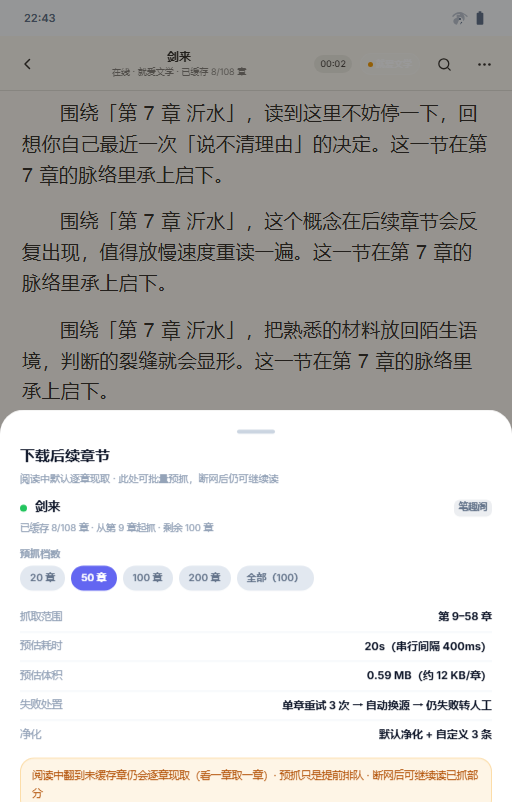
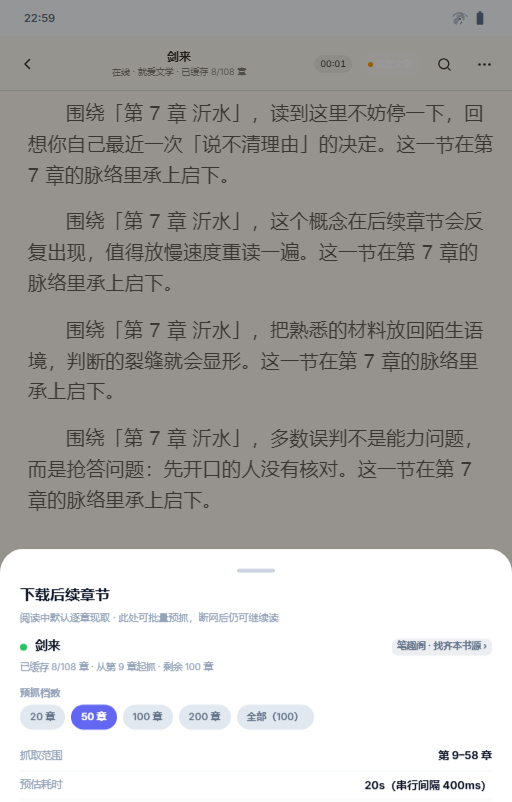
V1.55 书源专版原型轮3：新增本书书源屏（按书名找齐所有源·点一行即换源）+ 页内导入书源后自动重查

diff --git a/prototype/index-booksource.html b/prototype/index-booksource.html
@@ -2056,6 +2056,7 @@ tailwind.config = {
     <section id="p-bsDetail" class="page px-5 safe-pb no-scrollbar"><div id="bxDetailRoot"></div></section>
     <section id="p-bsTask" class="page px-5 safe-pb no-scrollbar"><div id="bxTaskRoot"></div></section>
     <section id="p-bsVerify" class="page px-5 safe-pb no-scrollbar"><div id="bxVerifyRoot"></div></section>
+    <section id="p-bsBookSrc" class="page px-5 safe-pb no-scrollbar"><div id="bxBookSrcRoot"></div></section>
   </main>
 
   <!-- ===== 悬浮球（快速记录） ===== -->
@@ -8186,6 +8187,7 @@ function bxAddImport() {
   try { bxSrcRender() } catch (e) { }
   toast('导入完成 · 新增订阅 ' + addSub + ' · 新增源 ' + addSrc + '（' + js + ' 个含 @js 已停用）· 跳过重复 ' + skip);
   BXV2.ids = BXAI.ids;
+  if (BXBS.imp) { BXBS.imp = 0; setTimeout(function () { bxBookSrcOpen(BXBS.nm); toast('新源已并入 · 重查本书') }, 420); return }
   setTimeout(function () { bxVerifyOpen('本次导入') }, 420);
 }
 
@@ -8614,6 +8616,7 @@ function bxSwitchOpen(srcId) {
     (cur.kind !== 'rule' || cur.hs !== 'ok' ? '<span class="bx-k part">' + BX_HSN[cur.hs] + '</span>' : '') + '</div>' +
     '<div class="bx-row !px-0 !py-2"><div class="flex-1"><b class="text-[12px]">自动换源</b><div class="text-[9.5px] text-slate-400">本章失败即按下方顺序重试，成功后停在原章</div></div>' +
     '<span class="toggle ' + (BS_SET.bsAuto ? 'on' : '') + '" onclick="bsFlipKey(\'bsAuto\');bxSwitchOpen(\'' + cur.id + '\')"></span></div>' +
+    '<div class="bx-row !px-0 !py-2" onclick="closeSheet(\'sheetBsSwitch\');bxBookSrcOpen()"><div class="flex-1"><b class="text-[12px]">按书名找齐所有源</b><div class="text-[9.5px] text-slate-400">拿本书书名并发查全部源 · 只列收录这本书的</div></div><span class="text-slate-300">›</span></div>' +
     '<div class="bx-cap mt-2">候选源 · 按优先级（↑↓ 调序）</div>' +
     BX_ORDER.filter(id => id !== cur.id).map((id, k) => {
       const s = bxs(id); if (!s) return '';
@@ -8990,7 +8993,7 @@ brFlip = function (dir) {
 const BX_VSTG = ['搜索', '目录', '正文', '发现页'];
 const BX_VSC = ['全部', '仅失效', '仅未自检', '本次导入'];
 let BXV2 = { scope: '全部', rows: [], i: 0, run: 0, tm: null, ids: [] };
-Object.assign(TITLES, { 'p-bsVerify': ['书源校验', '逐源跑搜索 / 目录 / 正文 / 发现页 · 出结论与归因'] });
+Object.assign(TITLES, { 'p-bsVerify': ['书源校验', '逐源跑搜索 / 目录 / 正文 / 发现页 · 出结论与归因'], 'p-bsBookSrc': ['本书书源', '按书名在所有源里找齐 · 点一行即换源并停在原章'] });
 function bxVerifyOf(s) {
   if (s.kind === 'js') return { segs: ['no', 'na', 'na', 'na'], v: '需 JS 引擎', ms: 0, why: '@js 规则 · 本期未启用引擎 · 保持停用' };
   if (s.kind === 'web') return { segs: ['no', 'na', 'na', 'na'], v: '被反爬拦', ms: 0, why: '403 + WebCrypto 解密 · 需浏览器渲染（期 4）' };
@@ -9124,7 +9127,7 @@ function bxBatchRender() {
   const opts = [20, 50, 100, 200, '全部'];
   document.getElementById('bxBatchBody').innerHTML =
     '<div class="flex items-center gap-2"><span class="bx-dot bx-hs-ok"></span><b class="text-[12.5px] flex-1 truncate">' + bxd(b.n) + '</b>' +
-    '<span class="bx-src">' + bxd(b.bsrc.srcNm) + '</span></div>' +
+    '<button class="bx-src" onclick="bxBookSrcOpen()">' + bxd(b.bsrc.srcNm) + ' · 找齐本书源 ›</button></div>' +
     '<div class="text-[9.5px] text-slate-400 mt-1">已缓存 ' + b.bsrc.cached + '/' + b.bsrc.total + ' 章 · 从第 ' + BXB.from + ' 章起抓 · 剩余 ' + BXB.left + ' 章</div>' +
     '<div class="bx-cap mt-3 mb-1">预抓档数</div>' +
     '<div class="flex gap-1.5 flex-wrap">' + opts.map(function (o) { return '<button class="chip !text-[10px] ' + (BXB.n === o ? 'chip-on' : '') + '" onclick="bxBatchPick(' + (o === '全部' ? BXB.left : o) + ',this)">' + (o === '全部' ? '全部（' + BXB.left + '）' : o + ' 章') + '</button>' }).join('') + '</div>' +
@@ -9151,6 +9154,69 @@ function bxBatchGo() {
   toast('预抓已排队 · 第 ' + from + '–' + to + ' 章（' + BXB.n + ' 章档）');
 }
 
+/* ================= 屏 8 · 本书书源（按书名在所有源里找齐 · 点一行即换源） ================= */
+let BXBS = { nm: '', q: '', done: 0, total: 0, run: 0, hits: [], errs: [], tm: null };
+function bxBookSrcOpen(nm) {
+  const b = bsBook(brV.b); const name = nm || (b && b.online ? b.n : '') || (BXV.b && BXV.b.t) || (b && b.n) || '';
+  if (!name) { toast('先在阅读页或书籍资料页打开一本书'); return }
+  closeSheet('sheetBsBatch'); closeSheet('sheetBsFail'); closeSheet('sheetBsDl'); closeSheet('sheetBrMore');
+  BXBS.nm = name; BXBS.q = name.split(/\s*(校对版|精校|全集)/)[0];
+  BXBS.done = 0; BXBS.run = 1; BXBS.hits = []; BXBS.errs = []; BXBS.no = (b && b.bsrc ? b.bsrc.cached : 1) || 1;
+  const pool = BX_SRC.slice();
+  BXBS.total = pool.length;
+  if (curPage !== 'p-bsBookSrc') navTo('p-bsBookSrc');
+  bxBookSrcRender();
+  clearInterval(BXBS.tm);
+  pool.forEach(function (s, k) {
+    setTimeout(function () {
+      const o = bxMockSrc(s, BXBS.q);
+      const no = bxBkNow() ? bxCurNo(bxBkNow()) || 1 : 1;
+      if (o.err) BXBS.errs.push({ id: s.id, why: o.err });
+      else {
+        const it = (o.list || []).find(function (x) { return x.t.indexOf(BXBS.q) === 0 }) || (o.list || [])[0];
+        if (it) BXBS.hits.push({ id: s.id, it: it, ms: o.ms, toc: s.toc || 0, align: (s.toc || 0) >= no });
+        else BXBS.errs.push({ id: s.id, why: '搜索有结果但无本书' });
+      }
+      BXBS.done++;
+      if (BXBS.done >= BXBS.total) BXBS.run = 0;
+      bxBookSrcRender();
+    }, 260 + k * 170);
+  });
+}
+function bxBookSrcRender() {
+  const r = document.getElementById('bxBookSrcRoot'); if (!r) return;
+  const cur = (bxBkNow() || {}).bsrc || {};
+  BXBS.hits.sort(function (a, b) { return (a.id === cur.srcId ? -1 : b.id === cur.srcId ? 1 : 0) || (b.toc - a.toc) });
+  r.innerHTML = '<div class="mt-2 card !py-3"><div class="flex items-center gap-2">' +
+    '<div class="flex-1 min-w-0"><b class="text-[13px] block truncate">' + bxd(BXBS.nm) + '</b>' +
+    '<div class="text-[9.5px] text-slate-400 mt-0.5">查找词「' + bxd(BXBS.q) + '」 · 全 ' + BXBS.total + ' 源并发 · 已返回 ' + BXBS.done + ' · 命中 ' + BXBS.hits.length + ' 源</div></div>' +
+    '<button class="chip !text-[10px] ' + (BXBS.run ? 'chip-on' : '') + '" onclick="bxBookSrcOpen(\'' + bxd(BXBS.nm) + '\')">' + (BXBS.run ? '查找中' : '重新查找') + '</button></div>' +
+    '<div class="bx-prog mt-2.5"><i style="width:' + Math.round(BXBS.done / Math.max(1, BXBS.total) * 100) + '%"></i></div></div>' +
+    '<div class="bx-cap mt-3">收录本书的书源 · 点一行直接换过去（停在原章）</div>' +
+    (BXBS.hits.length ? '<div class="bx-list">' + BXBS.hits.map(function (h) {
+      const s = bxs(h.id); if (!s) return ''; const isCur = s.id === cur.srcId;
+      return '<div class="bx-row ' + (isCur ? 'bg-slate-50 dark:bg-slate-800/60' : '') + '" onclick="bxBookSrcPick(\'' + s.id + '\')">' +
+        bxDot(s) + '<div class="flex-1 min-w-0"><b class="text-[12.5px] block truncate">' + bxd(s.nm) + (isCur ? ' · 当前' : '') + '</b>' +
+        '<div class="text-[9.5px] text-slate-400 truncate mt-0.5">' + bxd(h.it.a) + ' · ' + h.it.st + ' · ' + h.it.wc + '</div>' +
+        '<div class="flex items-center gap-1 mt-1">' + bxKind(s) +
+        '<span class="text-[9px] ' + (h.align ? 'text-emerald-600' : 'text-amber-600') + '">' + (s.toc ? s.toc + ' 章 · ' + (h.align ? '可对齐当前章' : '只到 ' + s.toc + ' 章') : '章数待取目录') + '</span></div></div>' +
+        '<div class="text-right shrink-0"><div class="text-[9.5px] text-slate-400 bx-lat">' + h.ms + 'ms</div>' +
+        '<button class="mini-btn mt-1">' + (isCur ? '重取本章' : '换到本源') + '</button></div></div>';
+    }).join('') + '</div>' : '<div class="bx-empty">' + (BXBS.run ? '正在逐源查找…' : '没有源收录这本书 · 可导入书源文件后再查') + '</div>') +
+    (BXBS.errs.length ? '<div class="bx-cap mt-3">未命中 / 不可用 ' + BXBS.errs.length + ' 源</div><div class="bx-list">' +
+      BXBS.errs.map(function (e) { const s = bxs(e.id); if (!s) return ''; return '<div class="bx-vrow opacity-70">' + bxDot(s) +
+        '<span class="flex-1 min-w-0 truncate">' + bxd(s.nm) + '</span><span class="text-[9.5px] text-slate-400 truncate max-w-[58%]">' + bxd(e.why) + '</span></div>' }).join('') + '</div>' : '') +
+    '<div class="mt-3 flex gap-2">' +
+    '<button class="flex-1 py-3 rounded-2xl grad text-white text-[13px] font-bold" onclick="BXBS.imp=1;bxAddOpen()">导入书源文件 / 链接</button>' +
+    '<button class="flex-1 py-3 rounded-2xl border border-slate-200 dark:border-slate-700 text-[13px] font-bold" onclick="bxVerifyOpen(\'全部\')">书源校验</button></div>' +
+    '<div class="bx-warn mt-2">换源只改正文来源 · 章节按「第 N 章」编号对齐 · 划线 · 书摘 · 计时 · 进度全部不动</div>';
+}
+function bxBookSrcPick(id) {
+  const s = bxs(id);
+  bxSwitch(id);
+  if (curPage === 'p-bsBookSrc') goBack();
+}
+
 /* ---------- 种子与深链 ---------- */
 function bxSeedOnline() {
   BX_PROTO.forEach(p => {
@@ -9175,6 +9241,7 @@ function bxSeedOnline() {
   else if (k === 'parse') { bxSrcOpen(); bxAddOpen(); document.getElementById('bxaiUrls').value = 'https://legado.aoaostar.com/api/bookSource\n随手写的一行不是地址'; BXAI.urls = document.getElementById('bxaiUrls').value; document.getElementById('bxaiJson').value = '[{"bookSourceUrl":"https://m.demo1.com","bookSourceName":"演示源1"},{"bookSourceUrl":"https://m.demo2.com"}]'; BXAI.json = document.getElementById('bxaiJson').value; bxAddParse() }
   else if (k === 'verify') bxVerifyOpen(BX_VSC[Math.min(BX_VSC.length - 1, +(qs.get('sc') || 0))] || '全部')
   else if (k === 'batch') { const o = bxRegBook('r1', '剑来'); bxEnter(o.b.id); setTimeout(bxBatchOpen, 300) }
+  else if (k === 'booksrc') { const o = bxRegBook('r1', '剑来'); bxEnter(o.b.id); setTimeout(function () { bxBookSrcOpen() }, 300) }
   else if (k === 'filter') { bxSrcOpen(); bxFilterOpen() }
   else if (k === 'switch') { BXV = { srcId: 'r4', i: 0, b: { t: '大奉打更人', a: '卖报小郎君', st: '完结', wc: '620 万字', last: '第 268 章', hot: '9.4', intro: '' }, rev: false, tab: '全部' }; bxdOpen('r4', 0); bxSwitchOpen('r4') }
   else if (k === 'fail') { BXV.b = { t: '大奉打更人', a: '卖报小郎君', st: '完结', wc: '620 万字', last: '', hot: '9.4', intro: '' }; const o = bxRegBook('r4', '大奉打更人'); bxEnter(o.b.id, 13); setTimeout(() => bxFailOpen(13), 260) }

diff --git a/tools/booksourcecheck.js b/tools/booksourcecheck.js
@@ -78,7 +78,7 @@ async function reload(q) {
     books:BS_BOOKS.length,onl:BS_BOOKS.filter(b=>b.online).length,grp:RS_SEC[RS_SEC.length-1][0],
     rows:RS_SEC[RS_SEC.length-1][1].length,scr:document.querySelectorAll('section[id^="p-bs"]').length,
     bdg:[].map.call(document.querySelectorAll('#p-bookshelf .br-local'),function(e){return e.textContent.trim()})}`);
-  (boot.src === 8 && boot.scr === 7) ? ok('启动·书源域注入', '源' + boot.src + ' · 屏' + boot.scr + ' · 可用' + boot.usable) : bad('启动', JSON.stringify(boot));
+  (boot.src === 8 && boot.scr === 8) ? ok('启动·书源域注入', '源' + boot.src + ' · 屏' + boot.scr + ' · 可用' + boot.usable) : bad('启动', JSON.stringify(boot));
   boot.onl === 2 ? ok('启动·在线书已入架', '在线 2 本 · 全架 ' + boot.books + ' 本') : bad('启动·在线书', JSON.stringify(boot));
   const onB = boot.bdg.filter(t => /在线/.test(t)).length, loB = boot.bdg.filter(t => /本地/.test(t)).length;
   onB === 2 && loB === 1 ? ok('书架·徽标同位替换', '在线 ' + onB + ' 枚 · 本地 ' + loB + ' 枚（EPUB 仍标本地）') : bad('书架·徽标', JSON.stringify(boot.bdg));
@@ -100,6 +100,8 @@ async function reload(q) {
   await page('p-bsSrcForm', 'bxFormRender', 150);
   await run("bxVerifyOpen('全部')");
   await page('p-bsVerify', 'bxVerifyRender', 260);
+  await run("BXBS.nm='剑来';BXBS.q='剑来';BXBS.done=8;BXBS.total=8;BXBS.run=0;BXBS.hits=[{id:'r1',it:{a:'烽火戏诸侯',st:'连载',wc:'1250 万字'},ms:842,toc:108,align:true}];BXBS.errs=[{id:'r4',why:'搜索路径 404 · 源已失效'}];");
+  await page('p-bsBookSrc', 'bxBookSrcRender', 200);
 
   /* ---------- 书源管理 ---------- */
   const mgr = await ev(`return {rows:document.querySelectorAll('#bxSrcList .bx-row').length,
@@ -319,6 +321,41 @@ async function reload(q) {
   const rst = await ev(`return {on:BX_SRC.filter(s=>s.on).length,hs:BX_SRC.map(s=>s.hs).join('/')}`);
   rst.on === 4 && rst.hs.indexOf('ok/warn/fuse/dead') === 0 ? ok('轮2·校验跑批后可复位（走查护栏）', '启用 ' + rst.on + ' · ' + rst.hs) : bad('轮2·复位', JSON.stringify(rst));
 
+  /* ---------- 轮3·本书书源（按书名找齐所有源 · 点一行即换源 · 页内导入） ---------- */
+  await run("var o=bxRegBook('r1','剑来');bxEnter(o.b.id)"); await wait(400);
+  await run("bxBatchOpen();document.querySelector('#bxBatchBody .bx-src').click()"); await wait(1500);
+  const bk0 = await ev(`return {p:curPage,txt:document.getElementById('bxBookSrcRoot').innerText.replace(/\\s+/g,' '),
+    hits:document.querySelectorAll('#bxBookSrcRoot .bx-list .bx-row').length,errs:document.querySelectorAll('#bxBookSrcRoot .bx-vrow').length,
+    prog:(document.querySelector('#bxBookSrcRoot .bx-prog>i')||{}).style}`);
+  bk0.p === 'p-bsBookSrc' && bk0.hits >= 2 && bk0.errs >= 3 ? ok('轮3·从续抓弹层点源名找齐本书源', bk0.hits + ' 源收录 · ' + bk0.errs + ' 源未命中') : bad('轮3·本书书源', JSON.stringify(bk0));
+  const bk1 = await ev(`return {first:document.querySelector('#bxBookSrcRoot .bx-list .bx-row b').textContent,
+    align:/可对齐当前章|只到 \\d+ 章|章数待取目录/.test(document.getElementById('bxBookSrcRoot').innerText),
+    why:/404|熔断|JS 引擎|渲染|无本书/.test(document.getElementById('bxBookSrcRoot').innerText),
+    imp:[].some.call(document.querySelectorAll('#bxBookSrcRoot button'),function(b){return /导入书源文件/.test(b.textContent)})}`);
+  /当前/.test(bk1.first) && bk1.align && bk1.why && bk1.imp
+    ? ok('轮3·命中表含当前源与对齐判定与失败归因', '首行「' + bk1.first + '」· 页内有导入入口') : bad('轮3·命中表', JSON.stringify(bk1));
+  await shot('bs-booksrc');
+  const bkB = await ev(`var b=bxBk('剑来');return {c:b.bsrc.cached,q:b.q,tm:b.times}`);
+  await run("BXBS.hits.filter(function(h){return h.id!=='r1'})[0]&&bxBookSrcPick(BXBS.hits.filter(function(h){return h.id!=='r1'})[0].id)"); await wait(300);
+  const bk2 = await ev(`var b=bxBk('剑来');return {src:b.bsrc.srcId,nm:b.bsrc.srcNm,c:b.bsrc.cached,q:b.q,tm:b.times,p:curPage}`);
+  bk2.src !== 'r1' && bk2.q === bkB.q && bk2.tm === bkB.tm && bk2.c >= bkB.c
+    ? ok('轮3·点一行即换源并回原页续读', bk2.nm + ' · 停在第 ' + bk2.c + ' 章 · 书摘 ' + bk2.q + ' 条') : bad('轮3·点行换源', JSON.stringify({ bkB, bk2 }));
+  await run("BXV.b={t:'剑来'};bxSwitchOpen('r1')");
+  const sw3 = await ev(`return {entry:/按书名找齐所有源/.test(document.getElementById('bxSwitchBody').innerText)}`);
+  sw3.entry ? ok('轮3·换源弹层有「按书名找齐所有源」入口') : bad('轮3·换源入口', JSON.stringify(sw3));
+  await run("closeSheet('sheetBsSwitch');bxBookSrcOpen('剑来')"); await wait(1700);
+  const bsN0 = await ev(`return {n:BX_SRC.length,hits:BXBS.hits.length}`);
+  await run("document.querySelector('#bxBookSrcRoot button[onclick*=\"bxAddOpen\"]').click()");
+  const impOpen = await ev(`return {open:!document.getElementById('sheetBsAdd').classList.contains('hidden'),ta:document.querySelectorAll('#bxAddBody textarea').length}`);
+  impOpen.open && impOpen.ta === 2 ? ok('轮3·本书无合适源时页内直接导入书源') : bad('轮3·页内导入', JSON.stringify(impOpen));
+  await run("document.getElementById('bxaiUrls').value='https://demo.newsub.com/shuyuan';BXAI.urls='https://demo.newsub.com/shuyuan';bxAddParse();bxAddImport()"); await wait(3600);
+  const bsN1 = await ev(`return {p:curPage,n:BX_SRC.length,hits:BXBS.hits.length,run:BXBS.run,txt:document.getElementById('bxBookSrcRoot').innerText.replace(/\\s+/g,' ').slice(0,40)}`);
+  bsN1.p === 'p-bsBookSrc' && bsN1.n > bsN0.n && bsN1.hits > bsN0.hits
+    ? ok('轮3·导入新源后自动回本页重查', '源 ' + bsN0.n + '→' + bsN1.n + ' · 收录本书 ' + bsN0.hits + '→' + bsN1.hits + ' 源') : bad('轮3·导入重查', JSON.stringify({ bsN0, bsN1 }));
+  await shot('bs-booksrc-import');
+  await run("BX_SRC=BX_SRC.filter(s=>s.id[0]!=='x');BX_SUBS=BX_SUBS.slice(0,2);bxSrcRender()");
+  await run("BXV.b={t:'剑来'};bxSwitch('r1');brLeave()");
+
   /* ---------- 换源 ---------- */
   await run("BXV.b={t:'剑来',a:'烽火戏诸侯',st:'连载',wc:'1250 万字',last:'',hot:'9.8',intro:''};bxSwitchOpen('r1')");
   const sw = await ev(`return {open:!document.getElementById('sheetBsSwitch').classList.contains('hidden'),rows:document.querySelectorAll('#bxSwitchBody .bx-row').length,
@@ -428,7 +465,7 @@ async function reload(q) {
   o9.rows >= 6 && o9.ord >= 14 ? ok('深链·?bs=switch 换源弹层含优先级调序', o9.rows + ' 行 · ' + o9.ord + ' 钮') : bad('深链·switch 轮2', JSON.stringify(o9));
 
   /* ---------- 全屏 emoji / 泄漏复扫 ---------- */
-  const sweep = await ev(`var out=[];['p-bsSources','p-bsSearch','p-bsDiscover','p-bsDetail','p-bsTask','p-bsSrcForm','p-bsVerify'].forEach(function(p){
+  const sweep = await ev(`var out=[];['p-bsSources','p-bsSearch','p-bsDiscover','p-bsDetail','p-bsTask','p-bsSrcForm','p-bsVerify','p-bsBookSrc'].forEach(function(p){
     var el=document.getElementById(p);setPage(p);var t=el.innerText||'';
     if(new RegExp(${JSON.stringify(EMOJI)},'u').test(t))out.push(p+':emoji');
     if(/undefined|NaN|\\[object/.test(t))out.push(p+':fake');});

diff --git a/docs/交接文档.md b/docs/交接文档.md
@@ -96,7 +96,7 @@ lifeHarness/
 
 3c10. ✅ **M1批3·批1 阅读数据层+书架工作台（2026-09-22 · fe8663d/0af194c/bea4237/7957cb4）**：**DB v12**=books/book_sessions/book_quotes 三表（计划 §2.1 全列 + §3.2/§3.3 补列 tags/last_read_at/sum_quote·view·gain；建库与 migrations[11] 共用 `DbSchema.bookSchemaStatements` 保同文；isbn 部分唯一索引空串落 NULL）。**代码**：`lib/features/read/`——domain（Book/BookSession/BookQuote+ShelfQuery 6 排序×8 维度纯函数+聚合工具）、data/ReadRepository（addBook 生成 id·setBookState/bulkSetState 同语义（移已读补满进度与 ended_at）·批量加标签并集去重·软删·单活计时会话（start 自动结旧·end 书守卫·回拨删行不入账·不足 1 分钟按 1）·minutesOnDay/ThisWeek/readingDays·补记 source=manual·kv read.*）、presentation（read_tab 工作台=今日环卡+五图标条 LH-K14+封面轨道 LH-L07/百分比进条 LH-C06+最近摘录+复习卡·shelf_page 书架=目标环卡(就地滚轮 read.goalBooks/goalDayMin)+搜索行+视图 5 态循环+⇅面板+分区 chips 计数+维度值行+管理批量底部条+长按菜单+FAB 新书表单·book_detail 沉浸壳=模糊色板头图 LH-C07+顶栏计时/more LH-K13+角标循环 LH-K17+目录/书摘/相关三 tab·read_sheets 弹层集合（新书/唯一摘录表单最小版/操作/目标滚轮/复习简版））。**R1 合规**：记录页经 `shared/linkage/read_mounts.dart` 挂载（journal_page 零 feature 直依赖）；路由 /read/shelf 与 /read/book/:id 入组合根。**测试**：read_data 15+read_page 9（runAsync 轮询待 workbench 聚合链·useSurface·维度分组键加前缀防 sliver duplicate-key 崩）·journal 占位断言改工作台断言·**全量 222/222 绿·analyze 清零**。**流程新增**：铁律 12 多对话原型文件所有权与共享面变更单（7957cb4）。下一站=批2 档案与计时进度（DB v13·目录/记进度/计时明细/悬浮条/L4 流水/资料页）。
 3c11. 🔵 **习惯打卡模块（需求 V1.31 · 高保真已定稿·待主会话开发）**：事实源 `prototype/index_habitcheck.html`，落地口径全部写入 **《习惯打卡模块开发计划-20260923.md》**（§1.1 十八条能力表 / §2 九表数据模型（`habit_entries` 按日流水为唯一真源，streak/best 为可重算缓存列）/ §3 路由与弹层映射 / **§3.2 逐元素操作逻辑总表** / §4 五批拆解（预发布目标 v0.1.13-m1.habit / v0.1.14-m1.habit2）/ §5 七条口径规范 / §6 `habit.*` 设置键表 / §7 L10·L4·L7 联动 / §8 测试）。**开工无需再等拍板**（产品负责人 2026-09-23 口径「只关注修改习惯打卡」）：习惯**主页**＝本模块自己的 `p-habits` 今日打卡页（非 App 仪表盘），骨架按本原型「三态视图（列表/紧凑/方块）」实现；并行会话 `-v3` 的「周格矩阵」仅作结构参考，将来若换只替换这一页排布，能力清单与数据模型不变（计划 §九 U-1）。两线共需的 `syncHabit` 写今日所在列、周偏移用 floor 两处修复一并采纳。
-3d. 🟡 **V1.55 在线书源（Legado 兼容）· 预研定案 + 专版原型轮2 已交付，待逐屏确认后开发（2026-09-29）**：架构与范围已拍板（`lib/features/booksource/` 平级隔离 + `read/` 侧 <100 行 `ChapterDoc` 契约 + `reader_page` 三处泛化；期1~3 本期、期4 JS 引擎后置）。轮1 原型被用户否掉（防盗链会让单绑源废掉），轮2 按三条指令重做：**① 阅读中随时换源**（顶栏常驻「源」胶囊钮 + 目录抽屉角标 + 更多菜单，候选优先级 ↑↓ 可调，403/失效自动跳源续读、关自动换源则失败即标失效不硬翻）；**② 批量导入 + 书源校验中心**（链接每行一个 / 文件多选 / 粘贴 JSON 三输入区 → 自动分类 订阅·源数组·单源·无效 与去重处置 → 导入即跳校验；校验逐源跑 搜索/目录/正文/发现页 四段并写回健康态、可一键停用不可用源、报告可复制）；**③ 逐章按需抓取**（看一章取一章 + 可选预取下一章 + 底栏「续抓」20/50/100/200/全部 生成范围任务）。事实源 `prototype/index-booksource.html`（**7 屏 + 8 弹层 · 996KB** · 由 `tools/bs_proto/inject.js` 从书架专版底座幂等重建 · 底座零改动 · `tools/booksourcecheck.js` **98/98 绿 · 控制台零异常** · 截图 20 张）。**下一步=产品按《docs/书源专版原型交接-20260929.md》§6 十一条待拍板项逐屏确认**，确认后按该文档 §7 变更单回灌书架专版衔接面，再进批1（引擎移植）~批3（下载本地化）。证据与量化对照见《docs/预研/legado书源探针/预研结论-20260929.md》。
+3d. 🟡 **V1.55 在线书源（Legado 兼容）· 预研定案 + 专版原型轮2 已交付，待逐屏确认后开发（2026-09-29）**：架构与范围已拍板（`lib/features/booksource/` 平级隔离 + `read/` 侧 <100 行 `ChapterDoc` 契约 + `reader_page` 三处泛化；期1~3 本期、期4 JS 引擎后置）。轮1 原型被用户否掉（防盗链会让单绑源废掉），轮2 按三条指令重做：**① 阅读中随时换源**（顶栏常驻「源」胶囊钮 + 目录抽屉角标 + 更多菜单，候选优先级 ↑↓ 可调，403/失效自动跳源续读、关自动换源则失败即标失效不硬翻）；**② 批量导入 + 书源校验中心**（链接每行一个 / 文件多选 / 粘贴 JSON 三输入区 → 自动分类 订阅·源数组·单源·无效 与去重处置 → 导入即跳校验；校验逐源跑 搜索/目录/正文/发现页 四段并写回健康态、可一键停用不可用源、报告可复制）；**③ 逐章按需抓取**（看一章取一章 + 可选预取下一章 + 底栏「续抓」20/50/100/200/全部 生成范围任务）。事实源 `prototype/index-booksource.html`（**8 屏 + 8 弹层 · 1002KB** · 由 `tools/bs_proto/inject.js` 从书架专版底座幂等重建 · 底座零改动 · `tools/booksourcecheck.js` **105/105 绿 · 控制台零异常** · 截图 23 张）。轮3 又按用户带截图的两条追加：**新增「本书书源」屏**（以当前书名并发查全部源 · 只列收录这本书的源并给「可对齐当前章」判定 · 点一行即换源回原页停在原章 · 入口=续抓弹层源名 / 换源弹层「按书名找齐所有源」/ 深链 `?bs=booksrc`）与**该屏页内导入书源文件**（导入完成自动回屏重查，源 8→17 · 收录本书 2→5）。**下一步=产品按《docs/书源专版原型交接-20260929.md》§6 十一条待拍板项逐屏确认**，确认后按该文档 §7 变更单回灌书架专版衔接面，再进批1（引擎移植）~批3（下载本地化）。证据与量化对照见《docs/预研/legado书源探针/预研结论-20260929.md》。
 4. **构建环境注意**：本机 GitHub 不可达 → sqlite3 原生库走 `tools/sqlite3/` 预置（pubspec hooks 段）；构建 APK 需**临时移除 `FLUTTER_STORAGE_BASE_URL`**（tuna 镜像 `download.flutter.io` 路径 404，直连 storage.googleapis.com 可用），PowerShell 示例：
    `Remove-Item Env:FLUTTER_STORAGE_BASE_URL; flutter build apk --debug`
 5. 确认原型 → 产品方 review `prototype/index.html`，提出视觉/交互修订（与编码并行）。
@@ -310,3 +310,4 @@ lifeHarness/
 | 2026-09-29 | **架构守护「catch 必带日志」上线（工单 §五-2 收口）** L1~L5 铺完后按拍板启用。新钉 `test/catch_log_guard_test.dart` 两例：① 登记式棘轮——`lib/**` 每个异常处置块（`catch(…){…}` **和**不带 catch 的 `on X {…}` 回落）必须「有交代」：块内 `AppLog.add/addKey/addStack/reportError`、或 `rethrow`/`throw` 上交、或 `catch-ok: 理由` 批准注释，否则必须进 baseline 登记（上线实测存量 **108 处 / 51 文件**，其中 read 42·kits 5 属并行会话写区由各自批次消项），此后只许减不许增、清零请删项；`core/logging/**` 为基建豁免面（记自己会递归）。② 守护自证——合成样本钉四类合规与三类静默，并钉 `extension G on BuildContext {` 不被误判成异常块（首版就栽在这里）；另有「扫描面骤减即红」防空转、`CATCH_GUARD_DUMP=1` 可重生成登记面。**上线即实测拦红一次**（临时静默 catch 文件 → 红 → 撤除 → 绿）。零 lib 行为改动。全量 run_gate（HEAD 干净 worktree）1757/0，零 lib 行为改动。 | test/catch_log_guard_test.dart, docs/日志覆盖工单-20260929.md, docs/开发计划书.md, docs/交接文档.md, docs/交棒话术-20260929-r14轮.md |
 
 | 2026-09-29 | **需求 V1.55 · 在线书源专版原型轮2 重做交付（轮1 被否·原型先行·未动 Flutter）** 用户验收否掉轮1：「如果书源的书有防盗链，书就没用了，理论来说应该可以自由换其他书源，在阅读页面可以随时切换才对。还有书源批量导入，导入文件或链接，自动解析，还要支持书源校验。还有书可以在线看，看一章请求一章（等于自动下载一章，可选下载接下来50章，或更多）」→ 三条全部落地：① **阅读中随时换源**=顶栏常驻「源」胶囊钮（源名 + 健康点，异常转黄/红）+ 目录抽屉源角标 + 更多菜单三入口，换源表升级为**优先级列表**（序号·健康点·章数·可对齐第 N 章判定·耗时·类型徽标·↑↓ 调序·自动换源开关）；**403 防盗链与失效源按优先级自动跳源续读并停在原章**，关掉自动换源则只试所选源、失败即标失效不硬翻；总开关停用后翻章不发起请求；**换源后划线/书摘/计时/进度四项断言不动**，书架来源文案随实际生效源同步。② **批量导入 + 校验中心**=「添加书源」弹层改三输入区（链接框每行一个 / 本地文件多选 chips / 粘贴 JSON），点解析**真跑 JSON.parse** 并自动分类 订阅·源数组·单源·无效 四类 + 逐条处置（新增/合并/跳过/无效原因）+ 汇总，导入即建源（@js 自动停用）并**自动跳新屏「书源校验」**（范围=本次导入）；校验中心逐源跑 搜索/目录/正文/发现页 四段·四段位条·结论·耗时·失效归因，跑完按结论写回源健康态，支持仅重跑失败 / 一键停用不可用源 / 复制报告。③ **逐章按需抓取 + 批量预抓**=翻到未缓存章只取该章（看一章取一章），可开「预取下一章」；底栏新增「续抓」→ 20/50/100/200/全部 五档、从当前未缓存章起生成**范围任务**（第 a–b 章·预估耗时/体积），任务卡标注预抓、完成后缓存章数累加而全本进度不变。产物 **7 屏 + 8 弹层 · 996KB**，走查 `tools/booksourcecheck.js` **98/98 PASS · 控制台零异常**（轮1 72 项全保留 + 轮2 新增 26 项），截图 20 张；片段与行段替换工装在 `tools/bs_proto/`（底座 `index-bookshelf.html` 仍零改动）。设置「在线书源」分组 13→**17 行**（加 书源校验 / 自动换源 / 续抓默认档 / 预取下一章）；待拍板项 7→**11 条**（新增 换源章节对齐口径 / 续抓默认档与预取 / 校验触发时机 / 批量导入规模上限）。**下一步=产品逐屏确认后进批1~批3；DB 仍预留 v29。** | prototype/index-booksource.html, prototype/shots/booksource/（20 张）, tools/bs_proto/{frag_css,frag_screens,frag_sheets,frag_js}.txt + inject.js + splice.js, tools/booksourcecheck.js, docs/书源专版原型交接-20260929.md, docs/需求清单.md, docs/预研/legado书源探针/预研结论-20260929.md, docs/交接文档.md |
+| 2026-09-29 | **需求 V1.55 · 在线书源专版原型轮3（本书书源屏 + 页内导入·原型先行·未动 Flutter）** 用户带真机截图两条追加：「点击弹窗里笔趣阁，进入书源选择页面，同时自动带入查找本书，这样等于自动把有本书的书源都列出来，用户可以自动切换，速度快一点。还缺少书源文件导入」→ ① 新增**第 8 屏「本书书源」`p-bsBookSrc`**：以当前这本书书名为关键词在全部源并发查找（逐源延时返回 + 进度条），只列**收录这本书的源**（作者·状态·字数·规则类型·章数·**「可对齐当前章 / 只到 N 章」判定**·单源耗时·当前源标记），点一行即换源并回原页停在原章（断言：书摘与计时条数不变、缓存只增不减）；未命中区逐源给原因（404 / 熔断 / 需引擎 / 需渲染 / 无本书）。② **入口三处**=续抓弹层里的源名（点「笔趣阁 · 找齐本书源 ›」）、换源弹层首行「按书名找齐所有源」、深链 `?bs=booksrc`；打开该屏会先收掉所有弹层。③ **页内导入书源文件/链接**=该屏底部主按钮直开批量导入弹层，导入完成后**自动回该屏重查**（走查实证 源 8→17 · 收录本书 2→5），不再强制跳校验中心（从管理页/设置进入的导入仍按原口径跳校验）。④ 产物 **8 屏 + 8 弹层 · 1002KB**，走查扩到 **105/105 PASS · 控制台零异常**（轮3 新增 7 项），截图 23 张；底座 `index-bookshelf.html` 仍零改动。**下一步不变=产品逐屏确认（§6 十一条）后进批1~批3。** | prototype/index-booksource.html, prototype/shots/booksource/（23 张）, tools/bs_proto/{frag_screens,frag_js}.txt + inject.js, tools/booksourcecheck.js, docs/书源专版原型交接-20260929.md, docs/需求清单.md, docs/交接文档.md |

diff --git a/docs/预研/legado书源探针/预研结论-20260929.md b/docs/预研/legado书源探针/预研结论-20260929.md
@@ -3,7 +3,7 @@
 ## 0. 登记状态（2026-09-29）
 
 本预研结论**已采纳** → 登记为**需求 V1.55「在线书源阅读（Legado 兼容）」**（需求清单模块 17 段书源扩展 + 第十节 V1.55 修订记录 + 交接文档变更日志）。
-落地事实源：原型 `prototype/index-booksource.html`（本期新建专版副本 · **2026-09-29 轮2 已交付，7 屏 + 8 弹层，`tools/booksourcecheck.js` 98/98 绿，待逐屏验收**）；开发口径见本文 §6 与《在线书源模块开发计划-20260929.md》（待随批 1 产出）；原型走查与待拍板项见《docs/书源专版原型交接-20260929.md》。
+落地事实源：原型 `prototype/index-booksource.html`（本期新建专版副本 · **2026-09-29 轮3 已交付，8 屏 + 8 弹层，`tools/booksourcecheck.js` 105/105 绿，待逐屏验收**）；开发口径见本文 §6 与《在线书源模块开发计划-20260929.md》（待随批 1 产出）；原型走查与待拍板项见《docs/书源专版原型交接-20260929.md》。
 **期 4（JS 引擎）本次一并采纳技术路线、后置独立立项**，不进入本期范围。
 
 - 预研日期：2026-09-28（七项主验 + 四期开发态 + 补验 A~D + 功能对照二轮，全部当日实测完成）
@@ -106,7 +106,7 @@ lib/features/read/
 
 | 批 | 内容 | 出口判据 |
 |---|---|---|
-| 原型轮 ✅**已交付 2026-09-29 · 轮2 重做同日交付** | `prototype/index-booksource.html`：书源管理 / **书源批量导入（链接·文件·粘贴 JSON 自动解析）** / **书源校验中心（逐源四段·结论·归因）** / 编辑书源（规则八段 + 三段测试）/ 书源搜索（多源并发 + 来源标注 + 熔断态）/ 发现页多 Tab / 书籍详情 / 抓取任务（含**预抓范围任务**）+ 8 弹层；衔接=书架徽标同位替换 · **阅读页常驻换源钮与逐章现取与自动跳源** · CFI 泛化 · 添加图书入口 · 设置「在线书源」分组 17 行 | 轮1 72 项 + 轮2 新增 26 项＝`tools/booksourcecheck.js` 无头逐屏 **98/98 PASS · 控制台零异常**；截图 `prototype/shots/booksource/`（20 张）；交接与 **11 条**待拍板项见《docs/书源专版原型交接-20260929.md》→ **待用户逐屏验收** |
+| 原型轮 ✅**已交付 2026-09-29 · 轮2 重做 + 轮3 追加同日交付** | `prototype/index-booksource.html`：书源管理 / **书源批量导入（链接·文件·粘贴 JSON 自动解析）** / **书源校验中心（逐源四段·结论·归因）** / **本书书源（按书名在所有源里找齐 · 点一行即换源 · 页内导入后自动重查）** / 编辑书源（规则八段 + 三段测试）/ 书源搜索（多源并发 + 来源标注 + 熔断态）/ 发现页多 Tab / 书籍详情 / 抓取任务（含**预抓范围任务**）+ 8 弹层；衔接=书架徽标同位替换 · **阅读页常驻换源钮与逐章现取与自动跳源** · CFI 泛化 · 添加图书入口 · 设置「在线书源」分组 17 行 | 轮1 72 项 + 轮2 26 项 + 轮3 7 项＝`tools/booksourcecheck.js` 无头逐屏 **105/105 PASS · 控制台零异常**；截图 `prototype/shots/booksource/`（23 张）；交接与 **11 条**待拍板项见《docs/书源专版原型交接-20260929.md》→ **待用户逐屏验收** |
 | 批 1 内核移植 | 引擎拆 3 件进 `booksource/data/`；订阅导入与本地管理（去重/启停/删）；`bs_engine_*` | 仿真站四段 + 过滤 + GBK 单测全绿 |
 | 批 2 在线阅读 | 四段联网 + `ChapterDoc` 契约 + reader_page 三处泛化 + Book 预填映射 + 搜索/发现页/管理页接线 | 真站 biqumo 在线开书可读、进度权重连续、与 EPUB 同账本 |
 | 批 3 下载本地化 | 串行限速 + 重试 + manifest 断点续传 + 追更 diff + 清缓存三态复用 | 断网续传、追更增量、清缓存可恢复 |
